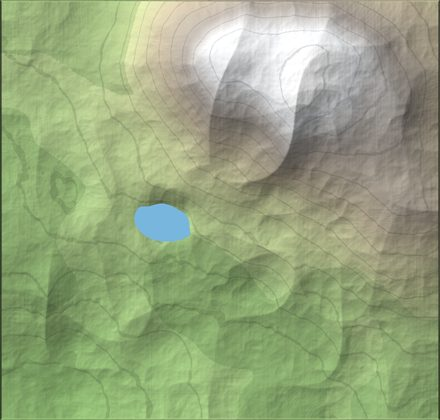
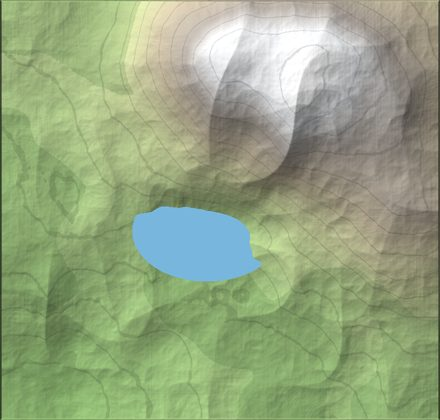
Landing: "loop ready" preview now circles a mountain lake
New shaded-relief tile with a larger lake below the summit, and a loop
trail around its shore starting from the south bank.

Claude-Session: https://claude.ai/code/session_01S6pEjobccqMEETmKfrvrKo

Changed region(s): [[0.2659, 0.3714, 0.7091, 0.7119], [0.2659, 0.4333, 0.2955, 0.4643]]

diff --git a/src/components/home/LandingPage.tsx b/src/components/home/LandingPage.tsx
@@ -16,10 +16,10 @@ import { fill } from "@/lib/i18n/funnel";
 import { PREMIUM_PRICE, PREMIUM_TRIAL_DAYS } from "@/lib/pricing";
 import type { CommunityStats, CommunityWeeklyKm } from "@/lib/supabase/types";
 
-// A real-looking switchback loop (lake, climb to a summit, descent) drawn
-// over a shaded-relief tile, for the "how it works" preview.
+// A real-looking hiking loop around a mountain lake, drawn over a
+// shaded-relief tile, for the "how it works" preview.
 const LOOP_TRAIL =
-  "M150.4 770.8 L154.1 767.6 L158.3 762.6 L161.2 755.2 L169.9 749.2 L175.6 740.4 L180.0 733.6 L185.6 727.3 L188.4 719.1 L193.1 714.2 L197.9 704.4 L201.0 696.6 L203.2 688.8 L204.0 683.4 L207.5 673.6 L213.0 668.3 L214.3 661.5 L219.1 653.8 L222.5 648.2 L228.7 642.0 L234.1 633.7 L237.1 627.2 L240.9 620.9 L245.6 616.5 L248.4 610.6 L252.6 603.1 L256.8 597.3 L257.6 591.0 L261.0 583.3 L263.9 576.9 L265.4 573.3 L265.6 566.9 L269.6 560.3 L271.6 552.4 L275.4 549.0 L278.9 542.0 L284.8 536.4 L286.7 528.6 L291.3 524.6 L294.2 519.7 L301.0 516.2 L303.4 513.6 L308.8 509.9 L315.9 510.7 L320.7 510.1 L327.2 507.7 L332.5 506.7 L337.7 505.6 L345.6 506.6 L350.2 501.3 L359.5 500.3 L364.6 496.5 L372.2 495.4 L378.5 490.9 L383.4 489.0 L388.9 483.9 L396.1 478.8 L399.0 477.1 L400.6 471.7 L400.0 465.4 L400.8 461.4 L402.0 454.8 L405.5 450.8 L407.7 444.5 L410.0 440.7 L416.0 435.1 L423.9 430.5 L433.2 429.4 L444.9 424.5 L452.8 419.9 L459.7 416.2 L467.9 414.6 L469.6 410.9 L469.9 407.3 L465.1 404.3 L457.3 401.1 L449.0 397.5 L442.6 395.1 L434.3 392.9 L431.1 388.6 L428.4 385.2 L433.0 382.0 L441.2 378.7 L451.8 374.8 L462.0 370.5 L474.5 367.2 L483.2 363.4 L492.4 359.1 L496.5 356.5 L494.4 351.8 L488.9 349.6 L484.5 345.4 L475.6 343.2 L467.7 338.5 L461.0 336.7 L456.2 333.1 L455.4 330.9 L459.3 327.2 L464.8 321.6 L476.1 319.4 L486.6 315.6 L499.1 309.6 L508.6 306.4 L514.8 302.4 L519.4 299.0 L518.3 295.2 L514.8 293.1 L508.4 290.8 L499.2 288.8 L490.3 284.2 L484.4 281.2 L479.5 279.4 L479.6 273.5 L484.1 270.2 L491.1 267.2 L500.9 265.4 L512.6 259.7 L523.6 256.6 L532.2 251.1 L540.8 248.7 L546.5 246.5 L546.0 241.1 L544.5 236.7 L537.4 235.2 L533.5 230.7 L527.9 230.0 L522.3 225.6 L519.0 222.2 L521.5 219.6 L524.8 218.6 L529.3 213.8 L537.8 211.9 L544.4 208.9 L555.0 207.0 L561.2 204.5 L568.0 202.7 L574.8 199.3 L579.9 198.7 L580.3 195.2 L583.2 193.9 L586.5 189.2 L586.5 186.7 L590.6 185.3 L591.9 184.6 L595.5 184.3 L600.2 182.7 L605.2 183.7 L609.9 184.6 L615.0 186.4 L621.5 187.5 L628.6 190.2 L632.5 191.5 L639.9 196.3 L647.3 198.3 L650.8 202.6 L658.6 206.0 L666.0 210.5 L671.7 216.0 L677.7 219.3 L685.3 223.8 L689.3 231.1 L694.2 236.5 L701.8 241.0 L705.9 248.1 L713.2 252.3 L716.8 260.0 L721.6 265.9 L724.9 273.4 L731.0 278.6 L732.8 288.0 L737.9 294.6 L738.5 302.0 L744.3 310.3 L745.9 314.9 L748.3 323.2 L749.3 333.4 L750.7 338.8 L750.0 349.7 L749.9 357.4 L750.6 364.9 L750.7 373.5 L748.2 383.7 L746.9 391.6 L747.0 402.4 L746.2 408.8 L742.8 417.4 L741.1 425.7 L739.6 432.8 L733.9 441.3 L731.0 448.4 L728.5 456.5 L724.6 463.0 L719.2 470.2 L714.2 478.4 L709.5 484.1 L702.7 492.5 L697.9 499.6 L691.3 508.7 L682.5 516.2 L675.6 521.8 L670.3 529.2 L664.3 536.7 L655.4 544.3 L647.2 550.4 L639.8 554.8 L635.1 562.6 L625.1 566.9 L619.6 574.6 L611.0 578.8 L602.2 585.4 L592.6 591.2 L585.3 597.0 L575.9 602.0 L568.5 609.2 L559.4 614.0 L550.4 619.7 L540.3 625.2 L531.2 629.9 L519.4 634.0 L509.8 639.1 L501.9 645.6 L491.3 649.0 L480.1 656.7 L470.5 660.0 L459.9 663.7 L448.9 668.5 L439.6 673.7 L431.2 677.4 L419.2 682.1 L408.9 686.4 L399.2 691.3 L388.5 697.0 L379.6 701.4 L370.6 705.0 L359.9 710.4 L348.8 714.1 L339.3 718.7 L330.7 721.5 L319.0 725.4 L309.1 729.8 L299.7 736.5 L289.5 738.1 L279.7 741.6 L270.3 746.5 L258.3 748.2 L249.8 753.6 L239.8 754.8 L231.0 756.1 L218.6 760.9 L210.0 760.6 L200.3 765.4 L190.0 764.8 L178.7 765.2 L172.0 767.6 L163.7 767.1 L154.5 767.9 L149.7 768.6";
+  "M388.5 624.1 L382.7 627.3 L374.4 626.5 L366.2 625.0 L359.4 627.9 L350.6 629.9 L343.2 629.2 L334.0 634.3 L327.9 636.2 L318.1 635.0 L307.4 638.6 L297.1 641.3 L288.9 637.9 L282.3 636.2 L275.2 634.5 L267.2 629.7 L261.7 623.7 L255.6 620.3 L252.8 613.5 L249.6 607.9 L249.3 600.9 L245.5 594.7 L241.5 587.8 L236.1 586.2 L230.0 582.5 L227.6 576.4 L220.4 572.5 L215.8 570.3 L211.9 561.7 L208.0 559.3 L210.0 552.9 L207.5 547.3 L208.9 540.1 L209.2 535.6 L210.0 528.5 L208.6 523.9 L211.1 518.8 L208.2 513.8 L203.6 508.1 L203.0 506.3 L197.4 501.0 L194.9 496.9 L193.0 489.7 L191.3 486.6 L189.5 480.9 L190.6 473.6 L192.7 470.5 L196.9 462.5 L204.9 460.8 L209.4 456.9 L213.2 450.5 L219.0 447.2 L222.3 441.8 L225.6 440.8 L229.9 435.5 L228.7 428.6 L231.1 424.4 L230.7 417.0 L229.7 414.8 L233.9 409.7 L236.0 403.1 L239.6 400.3 L243.1 395.1 L248.0 392.4 L252.1 388.5 L260.9 382.2 L264.0 380.6 L269.1 375.7 L270.3 369.6 L276.4 365.5 L276.3 355.6 L279.7 348.4 L285.2 342.0 L291.9 337.7 L294.9 331.8 L302.7 327.5 L310.2 323.4 L318.7 323.0 L329.8 323.8 L336.3 325.6 L348.8 327.8 L357.3 327.1 L364.5 329.6 L373.9 332.0 L381.6 334.0 L389.3 335.5 L394.3 336.8 L403.0 339.9 L410.3 339.7 L418.5 343.5 L423.6 345.0 L431.7 349.3 L439.3 352.2 L443.4 358.3 L447.5 362.0 L452.8 371.0 L455.0 373.4 L461.8 376.7 L462.8 379.7 L471.1 384.5 L475.8 385.1 L481.1 385.6 L490.6 385.1 L498.5 384.6 L506.1 383.5 L514.9 385.3 L523.3 389.4 L529.9 390.6 L533.4 393.7 L538.9 398.7 L544.7 401.0 L546.3 407.2 L550.7 413.3 L554.9 416.5 L559.3 420.8 L564.9 424.9 L570.0 426.9 L577.1 431.4 L582.0 437.3 L589.0 442.4 L589.8 444.6 L594.2 450.2 L595.2 456.4 L595.0 461.2 L597.2 468.8 L593.1 472.1 L592.4 480.1 L587.0 484.1 L586.9 490.8 L584.6 497.2 L585.2 499.8 L588.8 504.9 L590.5 510.9 L592.9 517.2 L594.5 526.0 L596.7 530.3 L597.8 536.0 L595.1 542.4 L592.9 547.3 L591.4 551.8 L585.4 560.1 L578.7 560.6 L571.2 564.6 L564.9 570.9 L557.1 571.8 L552.5 575.9 L546.3 581.3 L543.7 585.2 L535.8 591.1 L533.5 594.1 L524.7 596.4 L519.7 600.9 L511.7 604.0 L506.0 605.5 L497.4 601.9 L487.1 601.3 L479.3 602.5 L470.0 598.5 L459.0 599.4 L453.8 597.6 L446.7 598.2 L440.3 597.0 L435.0 599.2 L431.1 604.5 L423.8 605.0 L420.3 611.5 L413.4 614.0 L406.8 616.7 L402.2 622.3 L396.1 622.4 L387.0 626.9";
 
 const heroImage =
   "https://images.unsplash.com/photo-1616494268339-f49a1c4ac8f8?auto=format&fit=crop&w=2000&q=80";
@@ -169,9 +169,7 @@ export default async function LandingPage({ locale }: { locale: Locale }) {
                             <svg viewBox="0 0 880 840" preserveAspectRatio="xMidYMid slice" className="absolute inset-0 h-full w-full" aria-hidden="true">
                               <path d={LOOP_TRAIL} fill="none" stroke="#ffffff" strokeWidth="26" strokeLinejoin="round" strokeLinecap="round" />
                               <path d={LOOP_TRAIL} fill="none" stroke="#fd7310" strokeWidth="15" strokeLinejoin="round" strokeLinecap="round" />
-                              <circle cx="150" cy="770" r="30" fill="#3a7529" stroke="#ffffff" strokeWidth="12" />
-                              <path d="M595 184 V100" stroke="#0f1a0c" strokeWidth="10" strokeLinecap="round" />
-                              <path d="M595 104 L660 124 L595 144 Z" fill="#fd7310" />
+                              <circle cx="388" cy="624" r="30" fill="#3a7529" stroke="#ffffff" strokeWidth="12" />
                             </svg>
                           </div>
                           <span className="text-xs font-bold text-summit-400">{t.howItWorks.preview.ready}</span>
